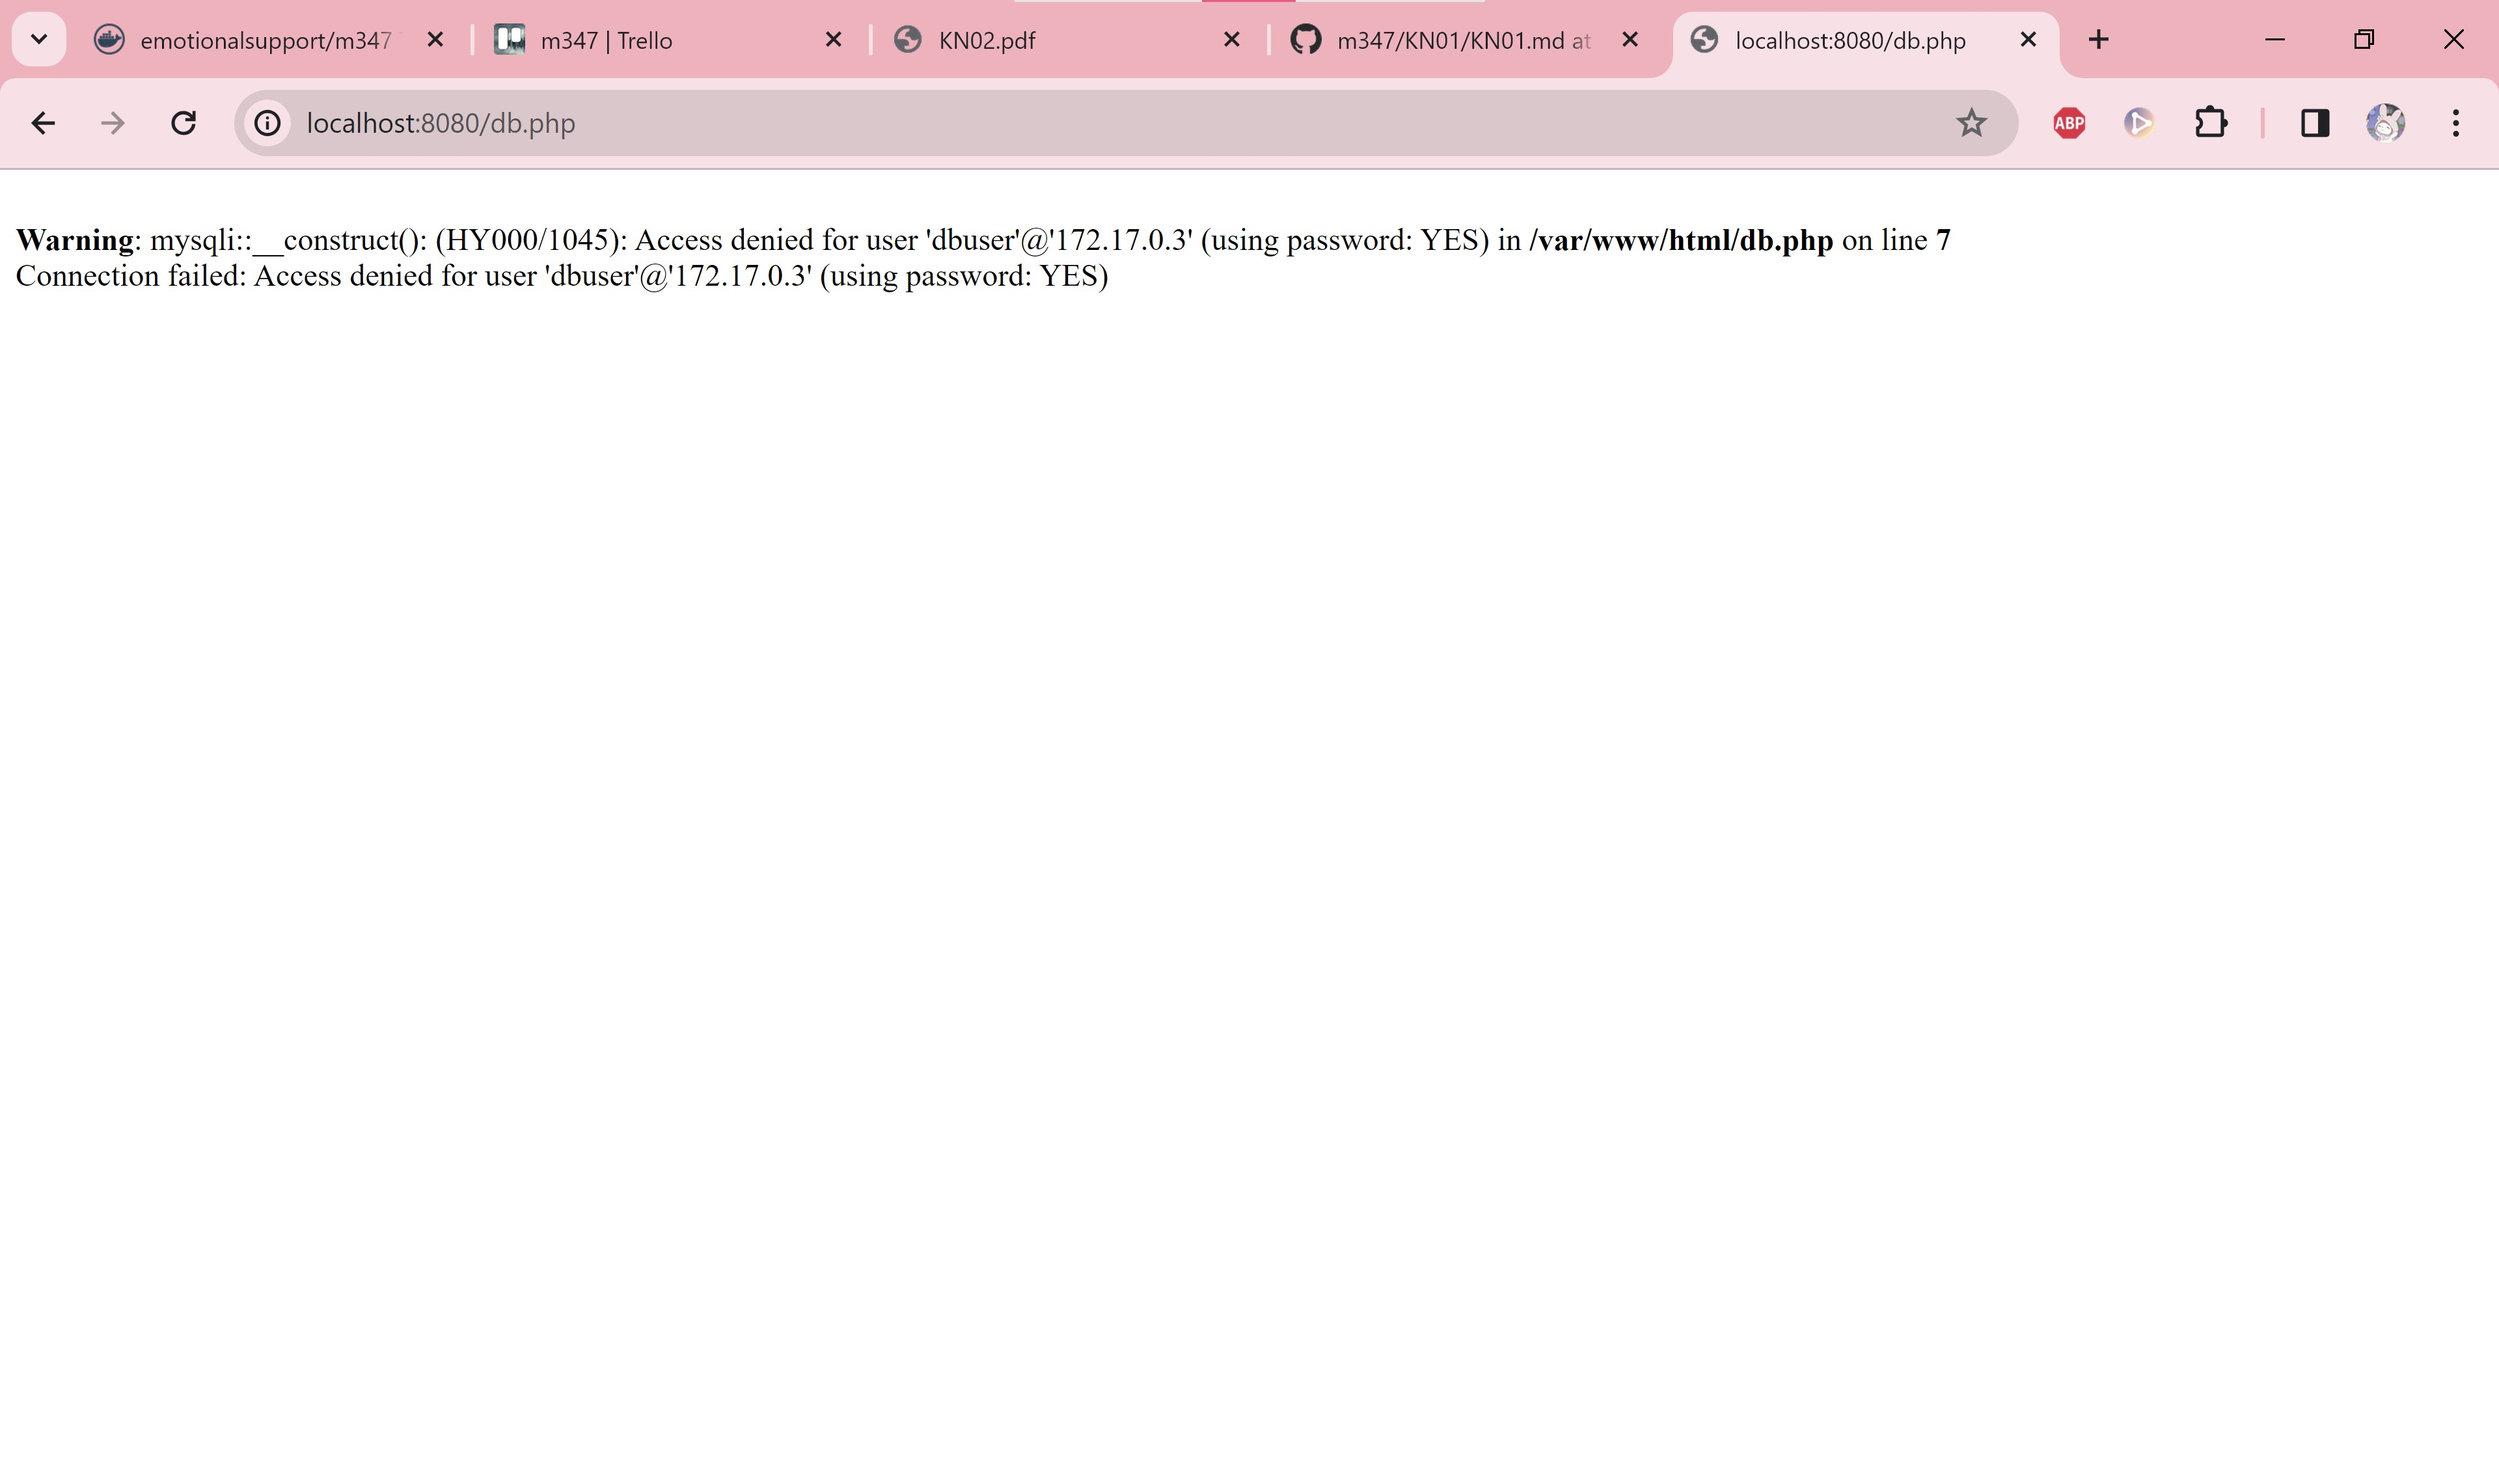
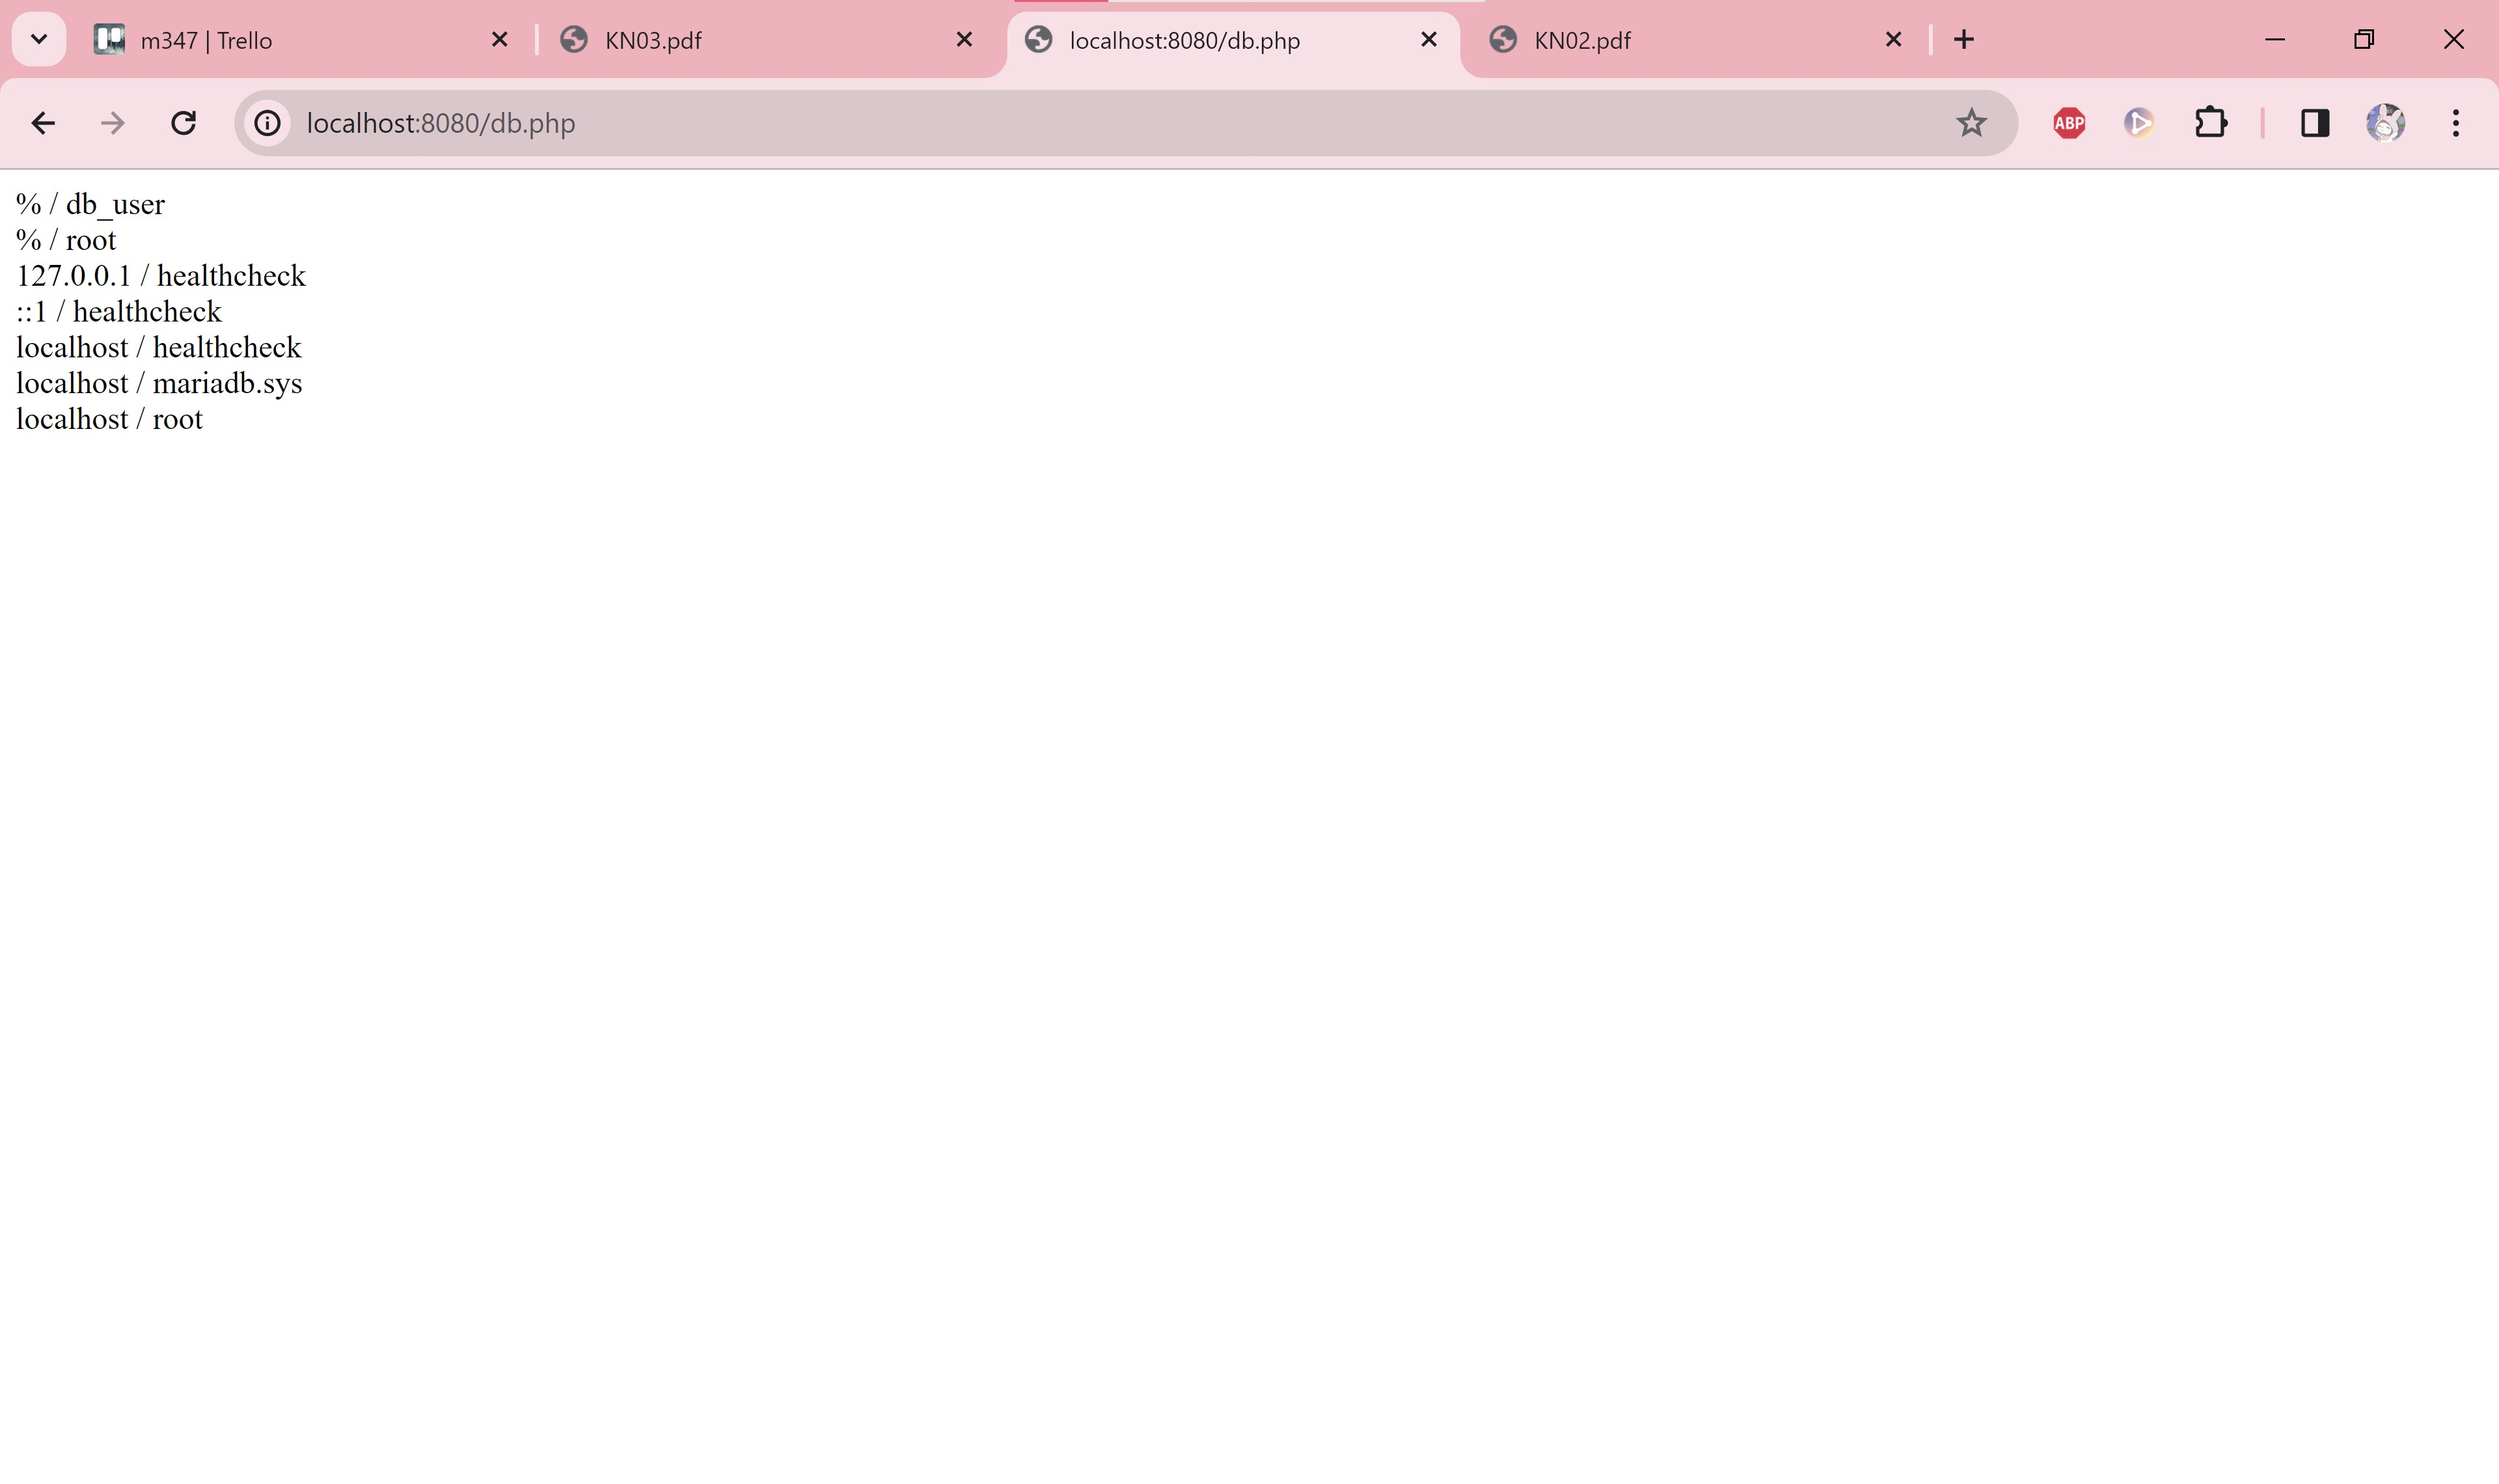
KN02 done?

diff --git a/KN02/db.php b/KN02/db.php
@@ -1,10 +1,10 @@
 <?php
-    $servername = "kn02b-db";
-    $username = "dbuser";
-    $password = "dbpassword";
-    $dbname = "mydatabase";
+    $servername = getenv('DB_HOST'); //getenv = get enviroment variables
+    $username = getenv('DB_USER');
+    $password = getenv('DB_PASSWORD');
+    $dbname = getenv('DB_NAME');
     // Create connection
-    $conn = new mysqli($servername, $username, $password, $dbname);
+    $conn = new mysqli($servername, $username, $password);
     // Check connection
     if ($conn->connect_error) {
         die("Connection failed: " . $conn->connect_error);

diff --git a/KN02/KN02.md b/KN02/KN02.md
@@ -7,7 +7,7 @@ docker build -t emotionalsupport/m347:kn02a .
 docker pull -t emotionalsupport/m347:kn02a .
 
 docker login
-W
+
 docker push emotionalsupport/m347:kn02a
 
 starts a Container: `docker run -p 8080:80 --name kn02a-container emotionalsupport/m347:kn02a
@@ -27,6 +27,8 @@ docker build -t emotionalsupport/kn02b-web:latest -f dockerfile-wc .
 docker run -d --name kn02b-db -p 3306:3306 emotionalsupport/kn02b-db:latest
 
 docker run -d --name kn02b-web -p 8080:80 --link kn02b-db emotionalsupport/kn02b-web:latest
+
+telnet localhost [port]
 
 ![image](telnet.jpg)
 
